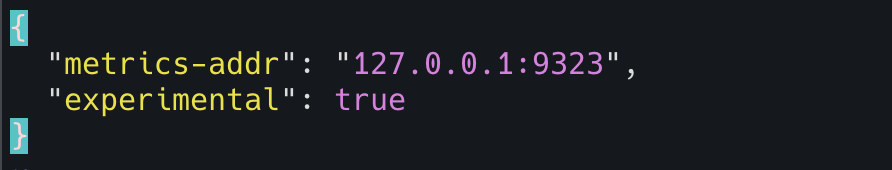
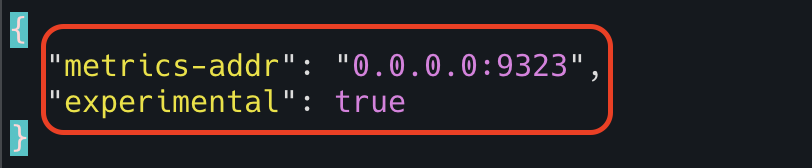
Added docker engine monitoring

Changed region(s): [[0.0, 0.0595, 0.7697, 0.9524]]

diff --git a/docs/observability/docker-monitoring.md b/docs/observability/docker-monitoring.md
@@ -1,4 +1,4 @@
-# Docker Monitoring
+# Docker Engine & Container Monitoring
 
 We can monitor the docker engine and docker containers in prometheus. 
 
@@ -6,13 +6,15 @@ I am using EC2 instance (my ubuntu server)
 where docker engine is running and another EC2 instance where prometheus server is running that will scrape docker engine
 and containers metrics from my ubuntu server.
 
+## Docker Engine Monitoring
+
 **Step 1 - Update docker daemon configuration**
 
 Create/update the docker daemon file located at `/etc/docker/daemon.json`
 
 ```html
 {
-  "metrics-addr": "127.0.0.1:9323",
+  "metrics-addr": "0.0.0.0:9323",
   "experimental": true
 }
 ```
@@ -28,6 +30,9 @@ systemctl restart docker
 ```
 
 ![obs_72.png](../assets/obs_72.png)
+
+
+
 
 **Step 3 - Check locally if the docker metrics are visible**
 
@@ -55,4 +60,11 @@ systemctl restart prometheus
 ```
 
 ![obs_75.png](../assets/obs_75.png)
+
+
+**Step 6 - Check the target status in prometheus UI**
+
+![obs_103.png](../assets/obs_103.png)
+
+![obs_104.png](../assets/obs_104.png)
 

diff --git a/docs/css/cascade-priority.md b/docs/css/cascade-priority.md
@@ -382,7 +382,7 @@ If I want to apply different color ONLY to `p` which is under `div`.
 
 **3. Descendant:** 
 
-This will apply the CSS rule to the all child elements under parent selector (As long as a child element 
+This will apply the CSS rule to all child elements under parent selector (As long as a child element 
 comes under parent in any nested level inside)
 
 **Syntax**
